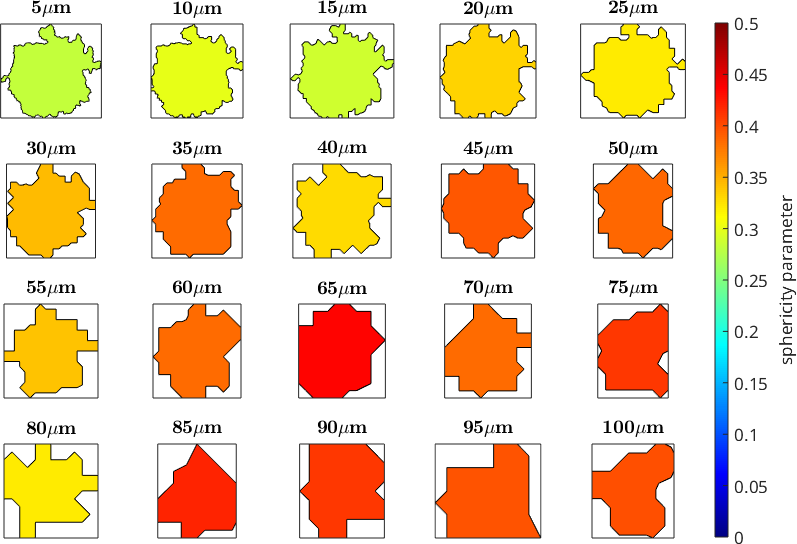
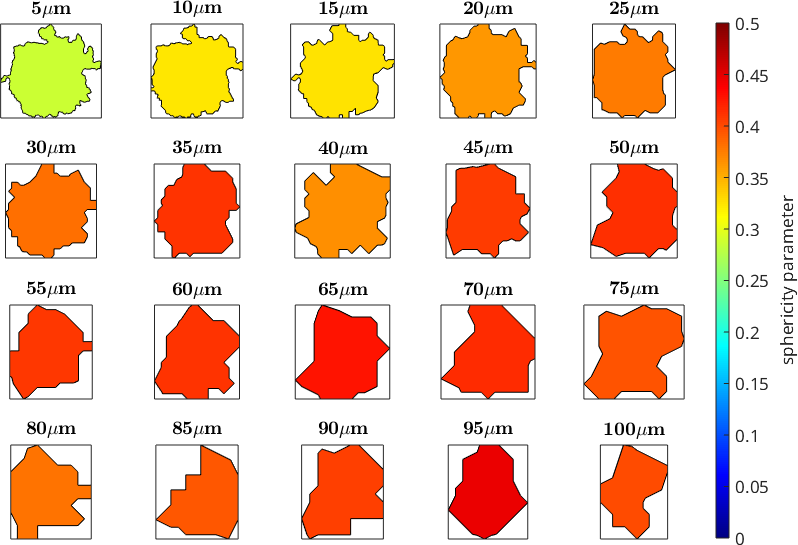
docu

diff --git a/pages/examples_matlab/ExIceSphericity.html b/pages/examples_matlab/ExIceSphericity.html
@@ -94,7 +94,7 @@ for i = 1:20
 
   % choose a grain with a large pixel number within the EBSD map with 5
   % micron step size, from each reduced EBSD map by location
-  grain = grains_reduced(findByLocation(grains_reduced, [1357 1952]));
+  grain = grains_reduced(1357,1952);
 
   % calculate the sphericity parameter
   Psi(i) = grain.area ./ (grain.perimeter('withInclusion') .* grain.equivalentRadius);
@@ -144,7 +144,7 @@ for m = 1:36
 
   % Smooth grain boundary to reduce pixelation, a larger m (smoothening
   % parameter corresponds to a greater grain boundary smoothening
-  smoothGrains = smooth(grains, m);
+  smoothGrains = smoothBoundary(grains, m);
 
   % calculate the sphericity parameter for smoothed grains
   Psi(m) = median(smoothGrains.area ./ smoothGrains.equivalentRadius ./ smoothGrains.perimeter('withInclusion') );
@@ -155,7 +155,7 @@ for m = 1:36
   % parameter increases, using a grain as an example
 
   % select grain
-  grain = smoothGrains(findByLocation(smoothGrains, [1357 1952]));
+  grain = smoothGrains(1357,1952);
 
   % plot it
   if m>1, nextAxis; end
@@ -168,153 +168,6 @@ end
 setColorRange([0 0.5])
 mtexColorbar ('title', 'sphericity parameter')
 mtexColorMap jet
-{% endhighlight %}
-
-{% highlight plaintext %}
-Warning: grains.smooth has been renamed to
-grains.smoothBoundary, which additionally removes the
-pixel staircase before smoothing it. You are getting
-the old behaviour - see the help of grain2d/smooth. 
-Warning: grains.smooth has been renamed to
-grains.smoothBoundary, which additionally removes the
-pixel staircase before smoothing it. You are getting
-the old behaviour - see the help of grain2d/smooth. 
-Warning: grains.smooth has been renamed to
-grains.smoothBoundary, which additionally removes the
-pixel staircase before smoothing it. You are getting
-the old behaviour - see the help of grain2d/smooth. 
-Warning: grains.smooth has been renamed to
-grains.smoothBoundary, which additionally removes the
-pixel staircase before smoothing it. You are getting
-the old behaviour - see the help of grain2d/smooth. 
-Warning: grains.smooth has been renamed to
-grains.smoothBoundary, which additionally removes the
-pixel staircase before smoothing it. You are getting
-the old behaviour - see the help of grain2d/smooth. 
-Warning: grains.smooth has been renamed to
-grains.smoothBoundary, which additionally removes the
-pixel staircase before smoothing it. You are getting
-the old behaviour - see the help of grain2d/smooth. 
-Warning: grains.smooth has been renamed to
-grains.smoothBoundary, which additionally removes the
-pixel staircase before smoothing it. You are getting
-the old behaviour - see the help of grain2d/smooth. 
-Warning: grains.smooth has been renamed to
-grains.smoothBoundary, which additionally removes the
-pixel staircase before smoothing it. You are getting
-the old behaviour - see the help of grain2d/smooth. 
-Warning: grains.smooth has been renamed to
-grains.smoothBoundary, which additionally removes the
-pixel staircase before smoothing it. You are getting
-the old behaviour - see the help of grain2d/smooth. 
-Warning: grains.smooth has been renamed to
-grains.smoothBoundary, which additionally removes the
-pixel staircase before smoothing it. You are getting
-the old behaviour - see the help of grain2d/smooth. 
-Warning: grains.smooth has been renamed to
-grains.smoothBoundary, which additionally removes the
-pixel staircase before smoothing it. You are getting
-the old behaviour - see the help of grain2d/smooth. 
-Warning: grains.smooth has been renamed to
-grains.smoothBoundary, which additionally removes the
-pixel staircase before smoothing it. You are getting
-the old behaviour - see the help of grain2d/smooth. 
-Warning: grains.smooth has been renamed to
-grains.smoothBoundary, which additionally removes the
-pixel staircase before smoothing it. You are getting
-the old behaviour - see the help of grain2d/smooth. 
-Warning: grains.smooth has been renamed to
-grains.smoothBoundary, which additionally removes the
-pixel staircase before smoothing it. You are getting
-the old behaviour - see the help of grain2d/smooth. 
-Warning: grains.smooth has been renamed to
-grains.smoothBoundary, which additionally removes the
-pixel staircase before smoothing it. You are getting
-the old behaviour - see the help of grain2d/smooth. 
-Warning: grains.smooth has been renamed to
-grains.smoothBoundary, which additionally removes the
-pixel staircase before smoothing it. You are getting
-the old behaviour - see the help of grain2d/smooth. 
-Warning: grains.smooth has been renamed to
-grains.smoothBoundary, which additionally removes the
-pixel staircase before smoothing it. You are getting
-the old behaviour - see the help of grain2d/smooth. 
-Warning: grains.smooth has been renamed to
-grains.smoothBoundary, which additionally removes the
-pixel staircase before smoothing it. You are getting
-the old behaviour - see the help of grain2d/smooth. 
-Warning: grains.smooth has been renamed to
-grains.smoothBoundary, which additionally removes the
-pixel staircase before smoothing it. You are getting
-the old behaviour - see the help of grain2d/smooth. 
-Warning: grains.smooth has been renamed to
-grains.smoothBoundary, which additionally removes the
-pixel staircase before smoothing it. You are getting
-the old behaviour - see the help of grain2d/smooth. 
-Warning: grains.smooth has been renamed to
-grains.smoothBoundary, which additionally removes the
-pixel staircase before smoothing it. You are getting
-the old behaviour - see the help of grain2d/smooth. 
-Warning: grains.smooth has been renamed to
-grains.smoothBoundary, which additionally removes the
-pixel staircase before smoothing it. You are getting
-the old behaviour - see the help of grain2d/smooth. 
-Warning: grains.smooth has been renamed to
-grains.smoothBoundary, which additionally removes the
-pixel staircase before smoothing it. You are getting
-the old behaviour - see the help of grain2d/smooth. 
-Warning: grains.smooth has been renamed to
-grains.smoothBoundary, which additionally removes the
-pixel staircase before smoothing it. You are getting
-the old behaviour - see the help of grain2d/smooth. 
-Warning: grains.smooth has been renamed to
-grains.smoothBoundary, which additionally removes the
-pixel staircase before smoothing it. You are getting
-the old behaviour - see the help of grain2d/smooth. 
-Warning: grains.smooth has been renamed to
-grains.smoothBoundary, which additionally removes the
-pixel staircase before smoothing it. You are getting
-the old behaviour - see the help of grain2d/smooth. 
-Warning: grains.smooth has been renamed to
-grains.smoothBoundary, which additionally removes the
-pixel staircase before smoothing it. You are getting
-the old behaviour - see the help of grain2d/smooth. 
-Warning: grains.smooth has been renamed to
-grains.smoothBoundary, which additionally removes the
-pixel staircase before smoothing it. You are getting
-the old behaviour - see the help of grain2d/smooth. 
-Warning: grains.smooth has been renamed to
-grains.smoothBoundary, which additionally removes the
-pixel staircase before smoothing it. You are getting
-the old behaviour - see the help of grain2d/smooth. 
-Warning: grains.smooth has been renamed to
-grains.smoothBoundary, which additionally removes the
-pixel staircase before smoothing it. You are getting
-the old behaviour - see the help of grain2d/smooth. 
-Warning: grains.smooth has been renamed to
-grains.smoothBoundary, which additionally removes the
-pixel staircase before smoothing it. You are getting
-the old behaviour - see the help of grain2d/smooth. 
-Warning: grains.smooth has been renamed to
-grains.smoothBoundary, which additionally removes the
-pixel staircase before smoothing it. You are getting
-the old behaviour - see the help of grain2d/smooth. 
-Warning: grains.smooth has been renamed to
-grains.smoothBoundary, which additionally removes the
-pixel staircase before smoothing it. You are getting
-the old behaviour - see the help of grain2d/smooth. 
-Warning: grains.smooth has been renamed to
-grains.smoothBoundary, which additionally removes the
-pixel staircase before smoothing it. You are getting
-the old behaviour - see the help of grain2d/smooth. 
-Warning: grains.smooth has been renamed to
-grains.smoothBoundary, which additionally removes the
-pixel staircase before smoothing it. You are getting
-the old behaviour - see the help of grain2d/smooth. 
-Warning: grains.smooth has been renamed to
-grains.smoothBoundary, which additionally removes the
-pixel staircase before smoothing it. You are getting
-the old behaviour - see the help of grain2d/smooth.
 {% endhighlight %}
 <center>
 {% include inline_image.html file="ExIceSphericity_05.png" %}
